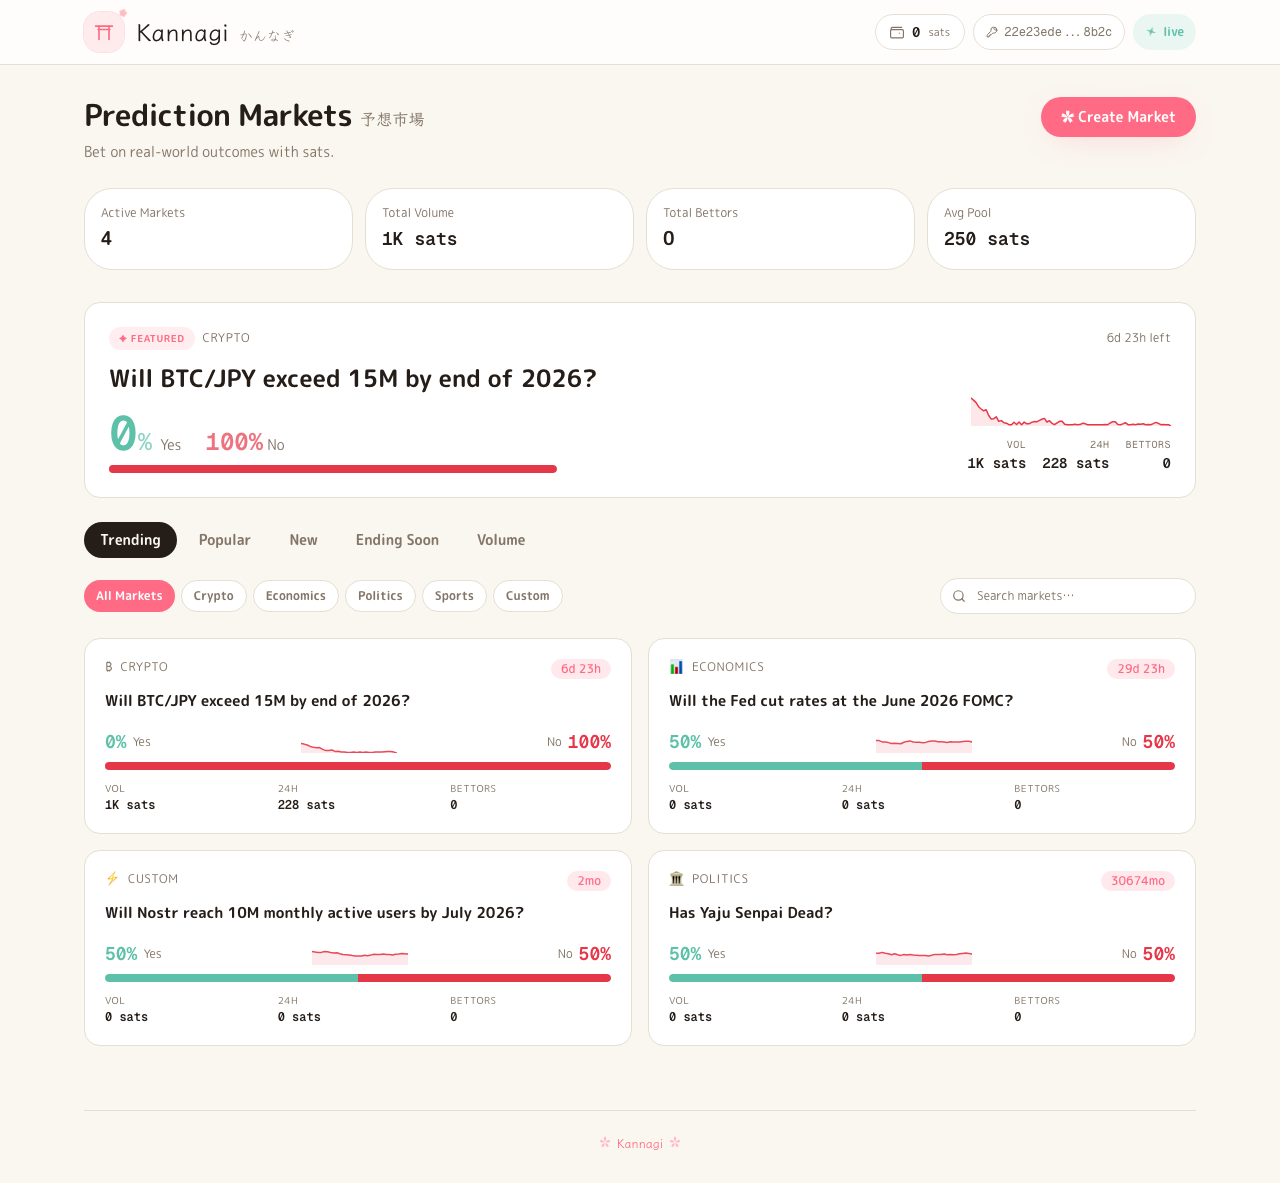
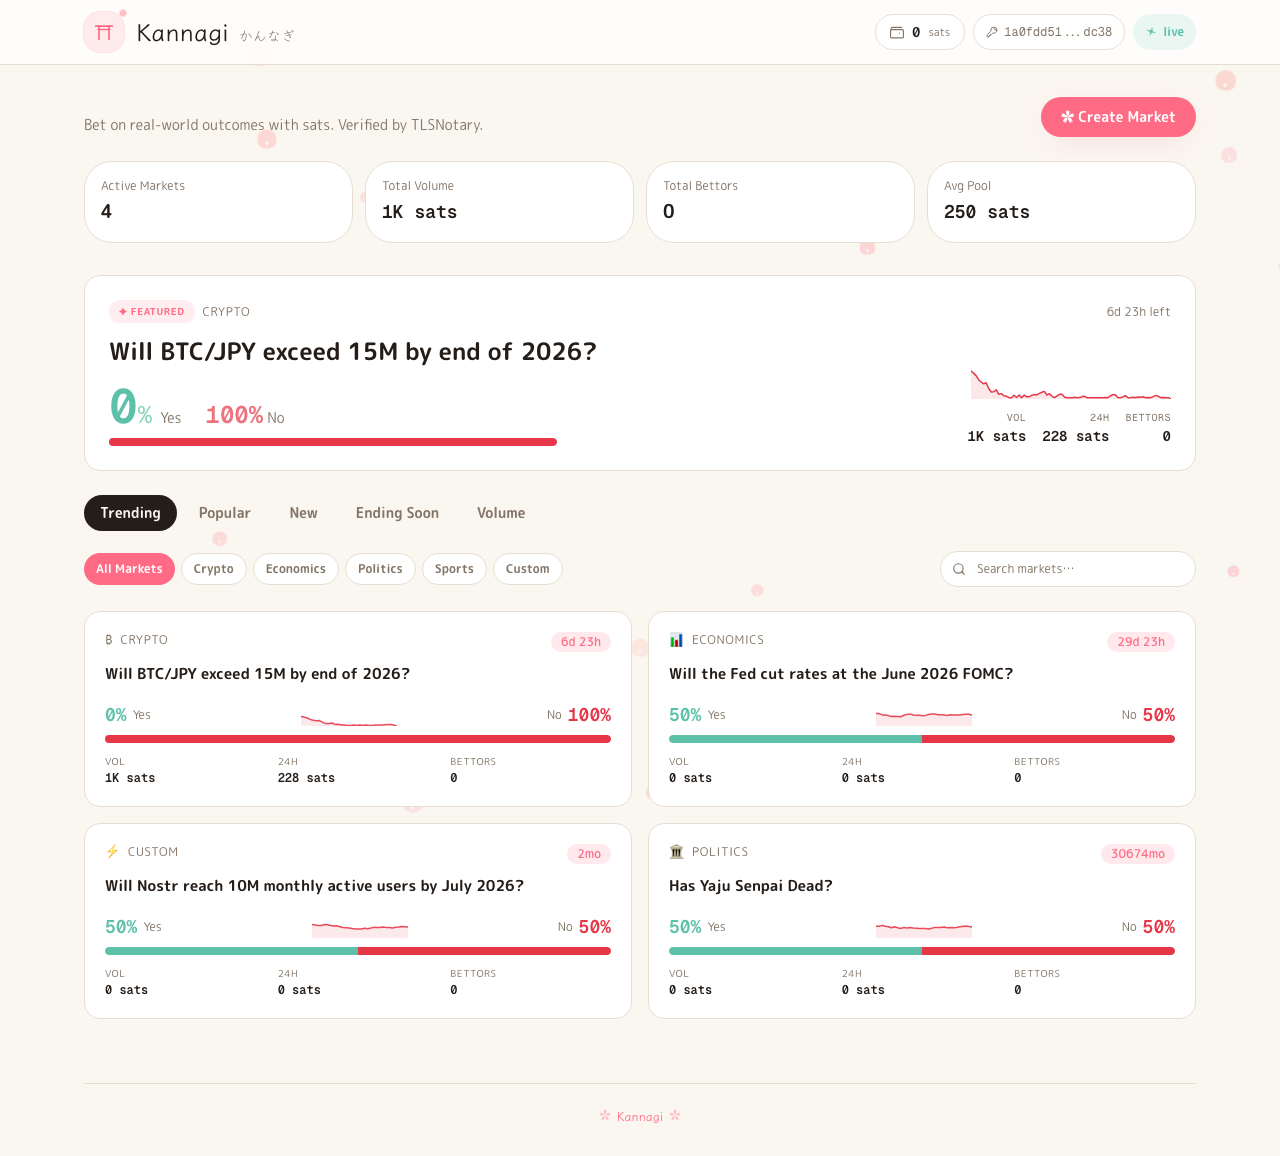
feat(prediction-market): scatter sakura petals + consolidate brand
Two atmosphere tweaks bundled into one commit because they share the
hero-region edits:

1. Sakura field — a fixed full-viewport layer of ~56 SVG petals scattered
   deterministically (mulberry32 seeded), each with its own size, hue, and
   sway phase. They drift via a single CSS keyframe so the work happens on
   the GPU; respects prefers-reduced-motion. The page content sits on
   `relative z-10` above the field at `-z-0`.

2. Kannagi is the platform name, so the previous double-naming
   ("Kannagi" in the header AND a redundant "Prediction Markets / 予想市場"
   page title) collapses into the header alone. The hero now lands directly
   on a one-line tagline + the create CTA, the way Polymarket's homepage
   trusts the masthead and gets straight to the markets.

diff --git a/example/prediction-market/ui/MarketApp.tsx b/example/prediction-market/ui/MarketApp.tsx
@@ -7,6 +7,7 @@ import { StatsBar } from "./components/StatsBar.tsx";
 import { MarketCard } from "./components/MarketCard.tsx";
 import { MarketDetail } from "./components/MarketDetail.tsx";
 import { FeaturedMarket } from "./components/FeaturedMarket.tsx";
+import { SakuraField } from "./components/SakuraField.tsx";
 import { trendingScore } from "./lib/market-history.ts";
 import { cn } from "./lib/utils.ts";
 
@@ -76,40 +77,38 @@ export function MarketApp() {
 
   if (selectedMarket) {
     return (
-      <div className="min-h-screen bg-background">
-        <Header />
-        <main className="max-w-6xl mx-auto px-5 py-8">
-          <MarketDetail
-            market={selectedMarket}
-            onBack={() => {
-              setSelectedMarketId(null);
-              invalidateMarkets();
-            }}
-            onBetPlaced={invalidateMarkets}
-          />
-        </main>
+      <div className="min-h-screen bg-background relative">
+        <SakuraField />
+        <div className="relative z-10">
+          <Header />
+          <main className="max-w-6xl mx-auto px-5 py-8">
+            <MarketDetail
+              market={selectedMarket}
+              onBack={() => {
+                setSelectedMarketId(null);
+                invalidateMarkets();
+              }}
+              onBetPlaced={invalidateMarkets}
+            />
+          </main>
+        </div>
       </div>
     );
   }
 
   return (
-    <div className="min-h-screen bg-background">
+    <div className="min-h-screen bg-background relative">
+      <SakuraField />
+      <div className="relative z-10">
       <Header />
 
       <main className="max-w-6xl mx-auto px-5 py-8">
-        {/* Hero */}
-        <div className="flex items-start justify-between mb-6 gap-4">
-          <div>
-            <h1 className="text-3xl font-bold text-foreground mb-2 tracking-tight">
-              Prediction Markets
-              <span className="font-shrine text-base text-muted-foreground ml-2 align-middle">
-                予想市場
-              </span>
-            </h1>
-            <p className="text-muted-foreground text-sm leading-relaxed">
-              Bet on real-world outcomes with sats.
-            </p>
-          </div>
+        {/* Hero — Kannagi is the platform; the brand is established in the
+         * header, so the page lands directly on a tagline + the create CTA. */}
+        <div className="flex items-end justify-between mb-6 gap-4">
+          <p className="text-sm text-muted-foreground leading-relaxed">
+            Bet on real-world outcomes with sats. Verified by TLSNotary.
+          </p>
           <button
             onClick={() => setShowCreateForm(!showCreateForm)}
             className="shrink-0 h-10 px-5 rounded-full bg-primary text-primary-foreground text-sm font-semibold hover:bg-primary/90 transition-all hover:-translate-y-0.5 shadow-sakura"
@@ -243,6 +242,7 @@ export function MarketApp() {
           </p>
         </footer>
       </main>
+      </div>
     </div>
   );
 }

diff --git a/example/prediction-market/ui/components/SakuraField.tsx b/example/prediction-market/ui/components/SakuraField.tsx
@@ -1,0 +1,90 @@
+import React, { useMemo } from "react";
+
+interface Petal {
+  x: number;       // 0-100 (vw)
+  y: number;       // 0-100 (vh, relative to canvas)
+  size: number;    // px
+  rotation: number;
+  hue: number;     // hsl hue (around 350 = sakura)
+  opacity: number;
+  drift: number;   // animation duration multiplier
+  phase: number;   // animation phase offset
+}
+
+function rng(seed: number): () => number {
+  let a = seed >>> 0;
+  return () => {
+    a = (a + 0x6D2B79F5) >>> 0;
+    let t = a;
+    t = Math.imul(t ^ (t >>> 15), t | 1);
+    t ^= t + Math.imul(t ^ (t >>> 7), t | 61);
+    return ((t ^ (t >>> 14)) >>> 0) / 4294967296;
+  };
+}
+
+function buildField(seed: number, count: number): Petal[] {
+  const r = rng(seed);
+  const petals: Petal[] = [];
+  for (let i = 0; i < count; i++) {
+    petals.push({
+      x: r() * 100,
+      y: r() * 220, // span 220vh — enough for long detail pages
+      size: 16 + r() * 30,
+      rotation: r() * 360,
+      hue: 345 + r() * 18,        // sakura pink range (345–363)
+      opacity: 0.22 + r() * 0.28, // 22–50%
+      drift: 12 + r() * 18,        // 12–30s sway period
+      phase: r() * 30,             // negative animation-delay seed
+    });
+  }
+  return petals;
+}
+
+interface SakuraFieldProps {
+  /** Number of petals (default 36). */
+  count?: number;
+  /** Deterministic seed (default fixed). */
+  seed?: number;
+}
+
+/**
+ * A drift of sakura (桜) petals scattered behind the content. Pure SVG, no
+ * canvas / no JS animation loop — each petal sways via a CSS keyframe with
+ * a randomized phase. Sits at `position: fixed`, `z-index: 0`, so the
+ * page content (which gets `relative z-10`) renders cleanly on top.
+ */
+export function SakuraField({ count = 56, seed = 0xCAFE_F10 }: SakuraFieldProps) {
+  const petals = useMemo(() => buildField(seed, count), [seed, count]);
+
+  return (
+    <div
+      aria-hidden="true"
+      className="pointer-events-none fixed inset-0 -z-0 overflow-hidden"
+    >
+      {petals.map((p, i) => (
+        <svg
+          key={i}
+          width={p.size}
+          height={p.size}
+          viewBox="0 0 32 32"
+          className="absolute sakura-drift"
+          style={{
+            left: `${p.x}vw`,
+            top: `${p.y}vh`,
+            transform: `rotate(${p.rotation}deg)`,
+            opacity: p.opacity,
+            animationDuration: `${p.drift}s`,
+            animationDelay: `-${p.phase}s`,
+            color: `hsl(${p.hue.toFixed(0)} 100% 84%)`,
+          }}
+        >
+          {/* Single sakura petal — teardrop with notched tip */}
+          <path
+            d="M16 3 C 22 3 25 9 23 14 C 22 17 19 18 16 18 C 13 18 10 17 9 14 C 7 9 10 3 16 3 Z M16 12 L 14.5 14 L 16 16 L 17.5 14 Z"
+            fill="currentColor"
+          />
+        </svg>
+      ))}
+    </div>
+  );
+}

diff --git a/example/prediction-market/ui/globals.css b/example/prediction-market/ui/globals.css
@@ -152,6 +152,25 @@
 }
 .animate-sparkle { animation: sparkle-pulse 2.4s ease-in-out infinite; }
 
+/* Sakura petals — gentle sway in place. Pairs with `.sakura-drift` set
+ * via inline style for per-petal duration + phase (see SakuraField). */
+@keyframes sakura-sway {
+  0%   { transform: translate(0, 0)    rotate(0deg); }
+  25%  { transform: translate(8px, 6px)  rotate(8deg); }
+  50%  { transform: translate(-4px, 14px) rotate(-6deg); }
+  75%  { transform: translate(-10px, 8px) rotate(4deg); }
+  100% { transform: translate(0, 0)    rotate(0deg); }
+}
+.sakura-drift {
+  animation-name: sakura-sway;
+  animation-iteration-count: infinite;
+  animation-timing-function: ease-in-out;
+  will-change: transform;
+}
+@media (prefers-reduced-motion: reduce) {
+  .sakura-drift { animation: none; }
+}
+
 /* Soft pink glow shadow for hover/focus highlights */
 .shadow-sakura {
   box-shadow: 0 8px 32px -12px rgba(255, 107, 133, 0.35);
